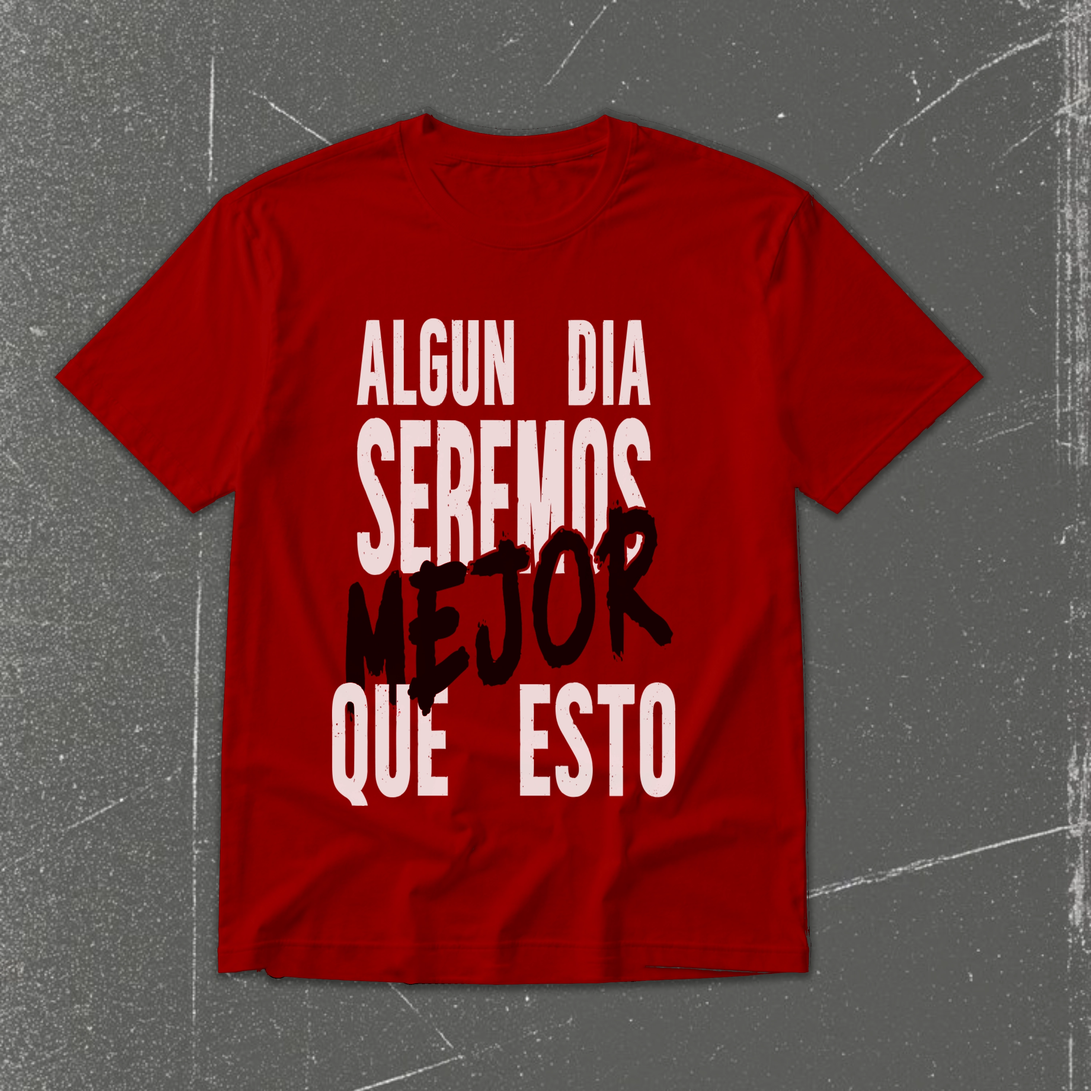
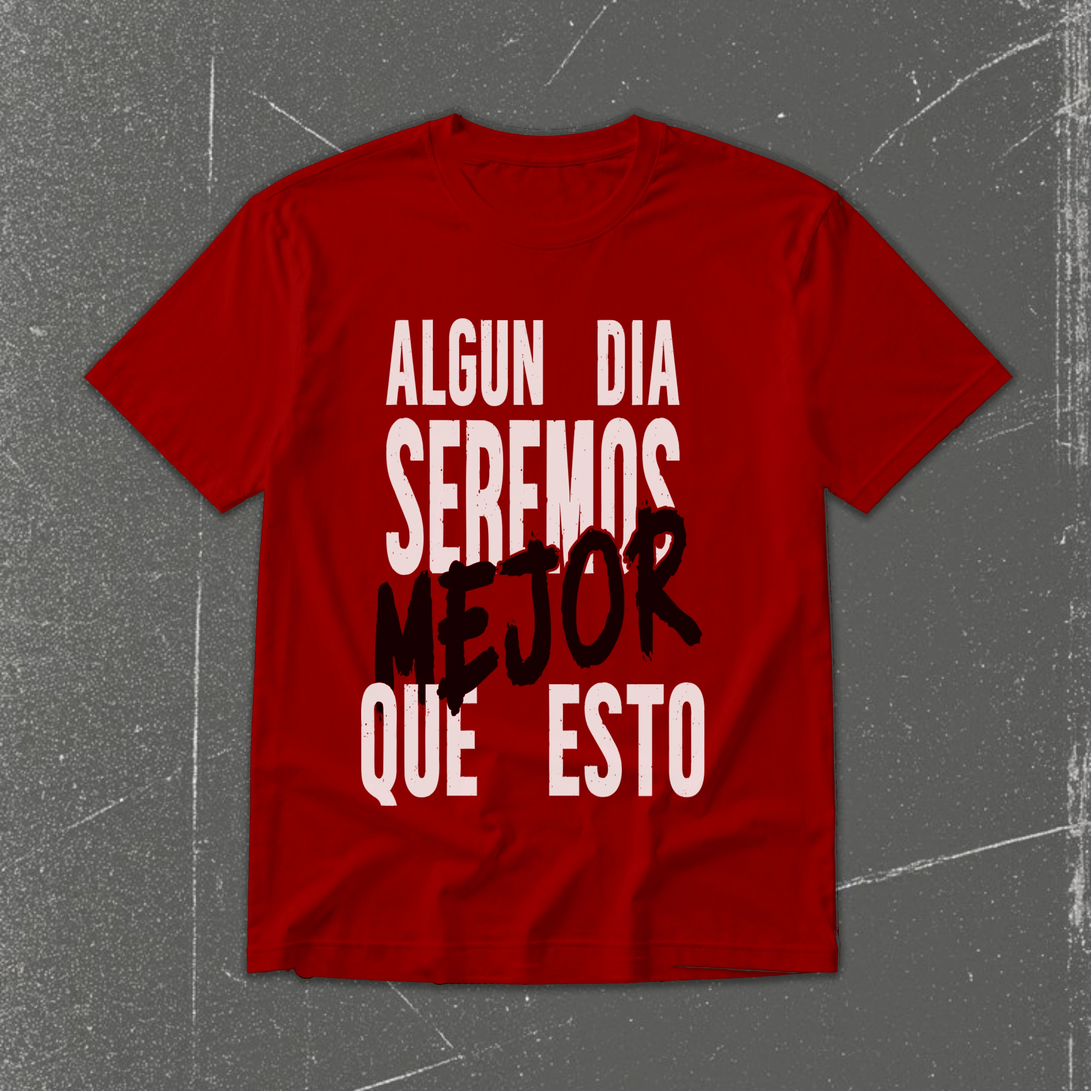
Se hace una actualizacion a la base de datos Merch

Changed region(s): [[0.031, 0.093, 0.93, 0.899], [0.496, 0.093, 0.713, 0.186], [0.372, 0.775, 0.434, 0.899]]

diff --git a/src/db/Merch.js b/src/db/Merch.js
@@ -58,8 +58,8 @@ const Merch = [
         "name": "Termo",
         "descripcion": "Termo Diseño Pato El Pez",
         "price": 30000,
-        "image": "/public/images/Merch/Termo.webp",
-        "image2": "/public/images/Merch/Termo.webp",
+        "image": "/public/images/Merch/termo.webp",
+        "image2": "/public/images/Merch/termo2.webp",
         "sizes": ["No Aplica"]
     },
     {
@@ -140,6 +140,24 @@ const Merch = [
         "price": 25000,
         "image": "/public/images/Merch/cadena.png",
         "image2": "/public/images/Merch/cadena.png",
+        "sizes": ["No Aplica"]
+    },
+    {
+        "id": 17,
+        "name": "Camiseta Roja",
+        "descripcion": "Diseño Clasico",
+        "price": 35000,
+        "image": "/public/images/Merch/camisa_pato_rojo_frente.webp",
+        "image2": "/public/images/Merch/posterior_camisa_rojo.webp",
+        "sizes": ["No Aplica"]
+    },
+    {
+        "id": 18,
+        "name": "Camiseta Roja OS",
+        "descripcion": "Diseño Mejor Que esto",
+        "price": 35000,
+        "image": "/public/images/Merch/camisa_pato_rojo_frente.webp",
+        "image2": "/public/images/Merch/posterior_camisa_rojo.webp",
         "sizes": ["No Aplica"]
     },
 ]
